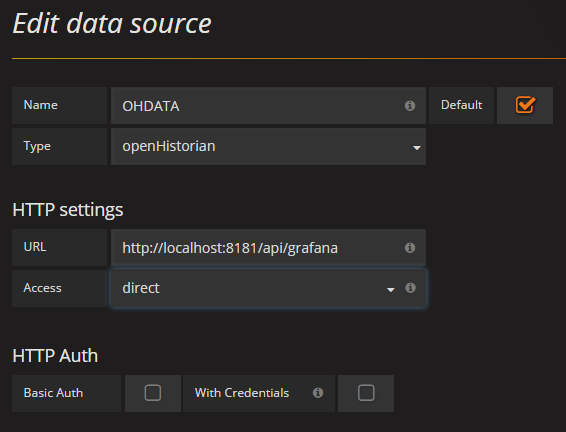
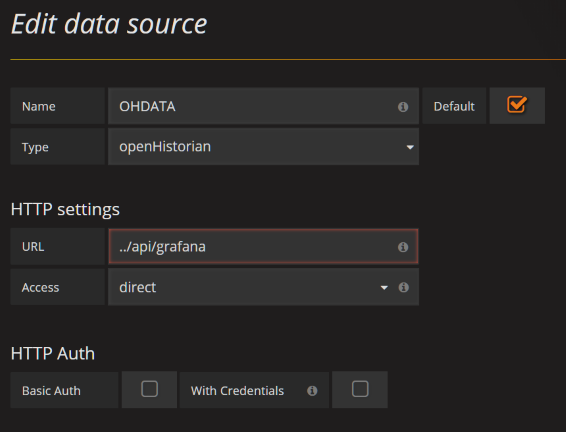
Updated README.md and images in deployed grafana plug-ins.

diff --git a/Source/Applications/openHistorian/openHistorian/Grafana/data/plugins/gridprotectionalliance-openhistorian-datasource/README.md b/Source/Applications/openHistorian/openHistorian/Grafana/data/plugins/gridprotectionalliance-openhistorian-datasource/README.md
@@ -108,9 +108,11 @@ For archived time-series data, the Grafana web service is hosted within the exis
 
 When the openHistorian service is hosting multiple historian instances, a specific historian instance can be referenced using a path like `/instance/{instanceName}/grafana/`, e.g.: [http://localhost:8180/instance/ppa/grafana/](http://localhost:8180/instance/ppa/grafana/) [\*](#localhost-note).
 
-The typical HTTP setting for `Access` in any instance of the openHistorian Grafana data source is _proxy_. However, when referencing a hosted Grafana instance that is integrated with the openHistorian 2.0 via reverse proxy, the `Access` setting will need to be set to _direct_ such that authentication headers can properly flow back through the openHistorian for user security validation:
+The typical HTTP setting for `Access` in any instance of the openHistorian Grafana data source is _proxy_. However, when referencing a hosted Grafana instance that is integrated with the openHistorian 2.0 via reverse proxy, the `Access` setting can be set to _direct_ such that the user's authentication headers can flow back through the openHistorian for user security validation:
 
 ![Direct Data Source Configuration](https://raw.githubusercontent.com/GridProtectionAlliance/openHistorian-grafana/master/src/img/DataSourceConfiguration.png)
+
+Using _direct_ access allows the openHistorian authenticated user to be the authenticated user in Grafana. Otherwise, _proxy_ access will also work but will require a user for Grafana to use for authenticating to the data source.
 
 #### openHistorian 2.0 Statistics Data
 

diff --git a/Source/Applications/openHistorian/openHistorian/Grafana/data/plugins/gridprotectionalliance-openhistorian-datasource/dist/README.md b/Source/Applications/openHistorian/openHistorian/Grafana/data/plugins/gridprotectionalliance-openhistorian-datasource/dist/README.md
@@ -108,9 +108,11 @@ For archived time-series data, the Grafana web service is hosted within the exis
 
 When the openHistorian service is hosting multiple historian instances, a specific historian instance can be referenced using a path like `/instance/{instanceName}/grafana/`, e.g.: [http://localhost:8180/instance/ppa/grafana/](http://localhost:8180/instance/ppa/grafana/) [\*](#localhost-note).
 
-The typical HTTP setting for `Access` in any instance of the openHistorian Grafana data source is _proxy_. However, when referencing a hosted Grafana instance that is integrated with the openHistorian 2.0 via reverse proxy, the `Access` setting will need to be set to _direct_ such that authentication headers can properly flow back through the openHistorian for user security validation:
+The typical HTTP setting for `Access` in any instance of the openHistorian Grafana data source is _proxy_. However, when referencing a hosted Grafana instance that is integrated with the openHistorian 2.0 via reverse proxy, the `Access` setting can be set to _direct_ such that the user's authentication headers can flow back through the openHistorian for user security validation:
 
 ![Direct Data Source Configuration](https://raw.githubusercontent.com/GridProtectionAlliance/openHistorian-grafana/master/src/img/DataSourceConfiguration.png)
+
+Using _direct_ access allows the openHistorian authenticated user to be the authenticated user in Grafana. Otherwise, _proxy_ access will also work but will require a user for Grafana to use for authenticating to the data source.
 
 #### openHistorian 2.0 Statistics Data
 
